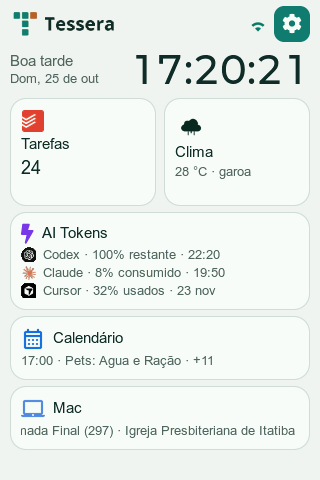
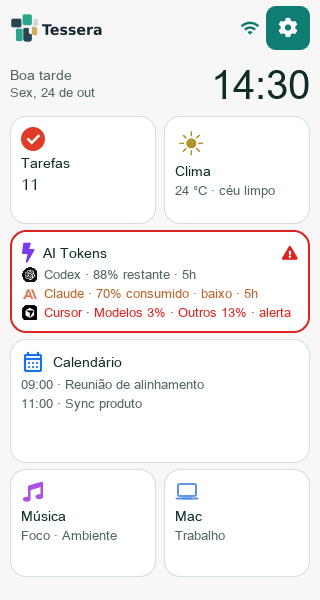
feat(site): refresh home shots and add the token detail
The published home still used the old full-width Mac row. Render the
current layout — Música beside Mac, generic agenda — and show AI Tokens.

diff --git a/site/index.html b/site/index.html
@@ -48,7 +48,7 @@
           </p>
         </div>
         <figure class="device">
-          <img src="/shots/home.png" width="320" height="480" alt="Home do painel Tessera: hora, tarefas, clima, tokens, agenda e o Mac." />
+          <img src="/shots/home.png" width="320" height="600" alt="Home do painel: hora, tarefas, clima, tokens, agenda, música e o Mac." />
         </figure>
       </section>
 
@@ -85,10 +85,10 @@
           </li>
           <li>
             <figure>
-              <img src="/shots/mac.png" width="320" height="480" alt="Home com o que está tocando no Mac." />
+              <img src="/shots/tokens.png" width="320" height="480" alt="Detalhe de AI Tokens: cotas do Codex, Claude e Cursor." />
               <figcaption>
-                <strong>Mac</strong>
-                <span>O que está tocando.</span>
+                <strong>Tokens</strong>
+                <span>Cotas de cada ferramenta.</span>
               </figcaption>
             </figure>
           </li>

diff --git a/simulator/src/sim_app.cpp b/simulator/src/sim_app.cpp
@@ -12,6 +12,8 @@
 #include "ui/settings_panel.h"
 #include "ui/todoist_panel.h"
 #include "ui/weather_page.h"
+#include "mac/focus_snapshot.h"
+#include "media/snapshot.h"
 
 #include <cstdio>
 #include <cstring>
@@ -126,6 +128,22 @@ void sim_app::paint_fixture(State &app) {
     home::set_weather(sim_detail::weather_view(s));
     home::set_aitokens(sim_detail::aitokens_view(s));
     home::set_calendar(sim_detail::calendar_view(s));
+
+    // Sample now-playing and Focus so the current Música | Mac pair is not empty.
+    media::View playing = {};
+    playing.ready = true;
+    playing.media.ok = true;
+    playing.media.state = media::MediaState::Playing;
+    std::snprintf(playing.media.title, sizeof(playing.media.title), "Foco");
+    std::snprintf(playing.media.artist, sizeof(playing.media.artist), "Ambiente");
+    home::set_media(playing, s.agent_ok);
+
+    focus::View focus = {};
+    focus.ready = true;
+    focus.ok = true;
+    std::snprintf(focus.active_id, sizeof(focus.active_id), "work");
+    std::snprintf(focus.active_name, sizeof(focus.active_name), "Trabalho");
+    home::set_mac(focus, s.agent_ok);
 }
 
 void sim_app::init(State &app, const Scenario &scenario) {
